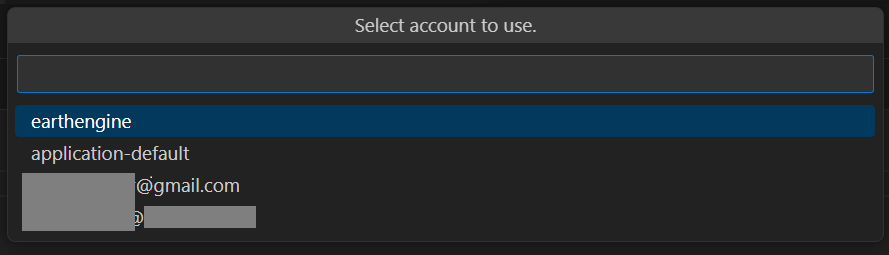
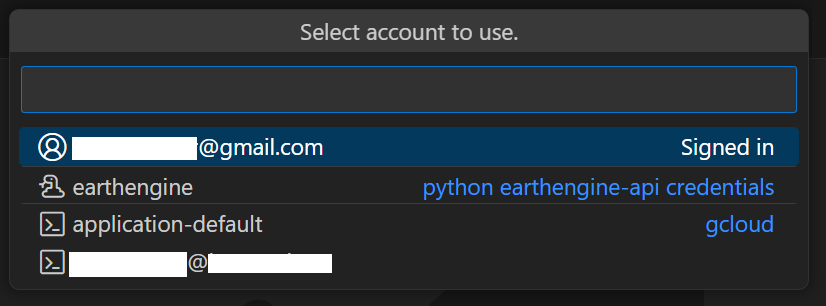
Updated README

diff --git a/README.md b/README.md
@@ -16,42 +16,47 @@ Open a table view of Earth Engine tasks for a user or service account.
 
 Run GEE code from within vscode! Learn more about what is [currently supported here](https://github.com/gee-community/eetasks/blob/main/docs/runGEEscripts.md). 
 
-### EE Tasks: update available accounts
-
-Use this command if you expect to use this extension for [multiple accounts](#multi-account-views). The command is run automatically upon first use of either the [view tasks](#ee-tasks-view) or [run gee script](#ee-tasks-run-gee-script) commands. 
 
 ## Requirements
 
-A [Google Earth Engine account](https://code.earthengine.google.com/register) is required to use the Earth Engine Tasks Manager extension. Additionally, either the [Earth Engine command line tool](https://developers.google.com/earth-engine/guides/command_line) (eecli) or the Earth Engine [python client library](https://developers.google.com/earth-engine/guides/python_install) must have been used to authenticate an account. If you are familiar with the [gcloud cli](https://cloud.google.com/sdk/docs/install) and have already [authenticated](https://cloud.google.com/sdk/gcloud/reference/auth/login) an earth engine account, you can also use `gcloud` to authenticate the Earth Engine library for this extension. 
+A [Google Earth Engine account](https://code.earthengine.google.com/register) is required to use the Earth Engine Tasks Manager extension. 
 
-### Multi-account views
+### Sign in options
+
+Use the `EE Tasks: sign in` command to add an account to use with the EE Tasks extension.  
+
+You might already have an account ready to use with the extension (no sign-in required) if you are a user of the Earth Engine [python client library](https://developers.google.com/earth-engine/guides/python_install) or the [Earth Engine command line tool](https://developers.google.com/earth-engine/guides/command_line) (eecli). Use the `EE Tasks: update available accounts` to make these accounts available to the extension. This command will run automatically upon first use of either the [view tasks](#ee-tasks-view) or [run gee script](#ee-tasks-run-gee-script) commands, if there are no signed-in accounts yet. 
+
+## Multi-account views
 
 ![eetasks-multi](https://raw.githubusercontent.com/gee-community/eetasks/main/docs/assets/eetasks-multi.png)
 
 Multiple panels may be opened to view the tasks for different accounts. 
 
-#### Interactive account selection
-
-The available user accounts are populated using the [EE Tasks: update available accounts](#ee-tasks-update-available-accounts) command at any time. This command is automatically called upon the first time you run either the [EE Tasks: view tasks](#ee-tasks-view-tasks) or the [EE Tasks: run GEE script](#ee-tasks-run-gee-script) commads.
+### Interactive account selection
 
 ![eetasks-users](https://raw.githubusercontent.com/gee-community/eetasks/main/docs/assets/eetasks-users.png)
 
-The `earthengine` account refers to the credentials stored and managed by the earthengine Python API. The EE Tasks extension will not modify these credentials. 
+If there are at least two accounts available to the extension, you will be prompted to select an account when using either the `EE Tasks: view tasks` or `EE Tasks: run GEE script`. 
 
-The `application-default` account refers to the
-[application default credentials](https://cloud.google.com/sdk/gcloud/reference/auth/application-default) in `gcloud`.
+Accounts signed-in through the extension (`EE Tasks: sign in`) show with a ![codicon:account](https://raw.githubusercontent.com/microsoft/vscode-codicons/main/src/icons/account.svg) icon next to them. 
 
-The other accounts shown (if any) are managed by the `gcloud cli` (as well as the earthengine cli through `gcloud`). You can use `gcloud auth login` to add an additional user, and `gcloud auth list` to display the accounts. If you update the credentialed accounts with `gcloud`, update them in the extension by using the [EE Tasks: update available accounts](#ee-tasks-update-available-accounts). 
+> You can remove a signed-in account with `EE Tasks: sign out`. 
 
-When selecting an account other than `earthengine`, you will also be prompted to specify a project to use. 
+Other available accounts are updated with the `EE Tasks: update available accounts`. 
+
+The ![snake](https://raw.githubusercontent.com/microsoft/vscode-codicons/main/src/icons/snake.svg) `earthengine` account refers to the credentials stored and managed by the earthengine Python API. The EE Tasks extension will not modify these credentials. 
+
+You might also have [gcloud](https://cloud.google.com/sdk/docs/install) installed if you use the [Earth Engine command line tool](https://developers.google.com/earth-engine/guides/command_line) (the python API client also uses `gcloud` in some environments). The `application-default` account refers to the
+[application default credentials](https://cloud.google.com/sdk/gcloud/reference/auth/application-default) used by gcloud.
+
+Other `gcloud` accounts shown (if any) are accounts that have been authenticated using `gcloud auth login` (you can use `gcloud auth list` to display these accounts). If the account has already been signed-in through the extension, it will not be repeated under `gcloud`. 
+
+When using the `EE tasks: run GEE script` command, you will also be prompted for a [project](https://developers.google.com/earth-engine/cloud/projects). 
 
 #### Default account
 
-![eetasks-default](https://raw.githubusercontent.com/gee-community/eetasks/main/docs/assets/eetasks-default.png)
-
-You may also specify a default account and project to use with the `EE tasks: view tasks (default account)`. You may specify any of the available accounts. 
-
-If the project is left blank and the account is not `earthengine`, you will be prompted for it. If the account is blank, you will prompted for it. Specifying an account that is not any of the available accounts will not work. 
+The `EE Tasks: view tasks (default account)` can be used to open a tasks panel view without having to select the account. You can set the default account to use with the `EE Tasks: set default account`. This is only useful if there is more than one account available to the extension.
 
 #### Service account (advanced use)
 
@@ -64,11 +69,6 @@ There is also a variation of the [EE Tasks: run GEE script](#ee-tasks-run-gee-sc
 This extension contributes the following settings:
 
 * `eetasks.limit`: Maximum number of tasks to request from earthengine. This value is set by default to null (blank), which means that there is no limit to the number of tasks to retrieve. 
-
-* `eetasks.defaultProject`: The default earthengine project to use with the `EE Tasks: view tasks (default account)` command.
-
-* `eetasks.defaultAccount`: The default earthengine account to use with the `EE Tasks: view tasks (default account)` command.
-
 
 ## Known Issues
 
